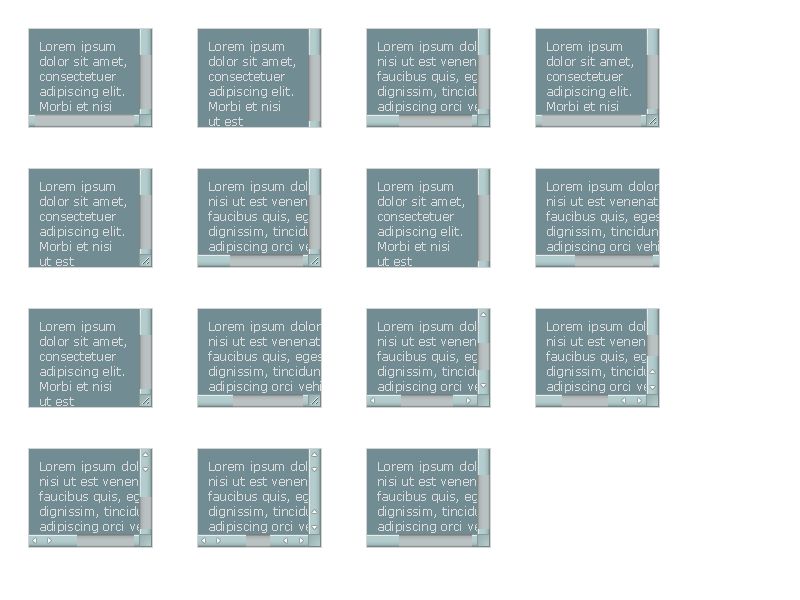
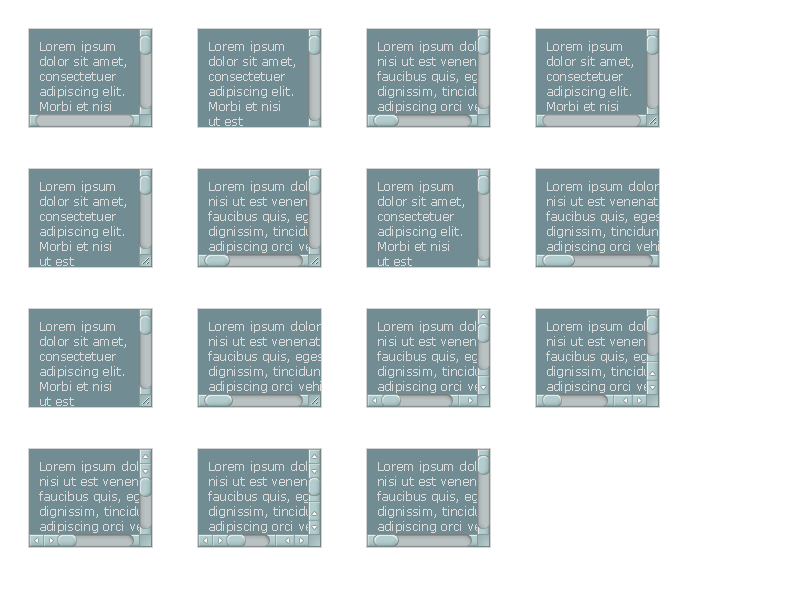
Reland "Fix border images in overflow-scrollbar-combinations.html"
This is a reland of commit d55a397dfb67bb8107fa5e92c93f74905a303d48

The revert reason was "still flaky on multiple builders", but the
failures were deterministic: the original CL landed a wrong set of
per-version baselines.

- platform/mac-mac15/ got the arm64 rendering, so all three variants
  failed on mac15-x64-rel-tests (mac15 falls back to mac-mac15, mac).
- platform/mac-mac14/virtual/* got copies of the pre-fix images, so
  the two virtual variants failed on mac14-tests.
- platform/win11-arm64/ only had the non-virtual baseline, so the two
  virtual variants fell back to the x64 platform/win/virtual/* images
  and failed on win11-arm64-rel-tests.

All three variants render identically per platform and architecture, so
this reland keeps only five baselines and lets the virtual suites fall
back to the non-virtual ones: linux, mac (x64), mac-mac26-arm64, win
(x64) and win11-arm64. Each is byte-identical to the actual image the
corresponding CI bot produced.

Original change's description:
> Fix border images in overflow-scrollbar-combinations.html
>
> Since -webkit-border-image follows spec border-image semantics, the
> images only paint on borders with a border-style; add border-style:
> solid to the scrollbar parts, rebaseline linux, and drop the stale
> Failure Pass expectations.
>
> Bug: 41312800
> Change-Id: I9dff35366af06a27d342debdc9948e3cffacb4dd
> Reviewed-on: https://chromium-review.googlesource.com/c/chromium/src/+/8424944
[…]

diff --git a/blink/web_tests/scrollbars/overflow-scrollbar-combinations.html b/blink/web_tests/scrollbars/overflow-scrollbar-combinations.html
@@ -25,6 +25,18 @@ body > div::selection, body > div div::selection {
     color: rgb(235, 235, 235);
 }
 
+/* border-image only paints on borders that have a border-style, so give the
+   scrollbar parts a solid style with zero default width; the part-specific
+   rules below set the widths where images are used. */
+::-webkit-scrollbar,
+::-webkit-scrollbar-thumb,
+::-webkit-scrollbar-track,
+::-webkit-scrollbar-track-piece,
+::-webkit-scrollbar-button {
+    border-style: solid;
+    border-width: 0;
+}
+
 ::-webkit-scrollbar {
     width: 13px;
     height: 13px;
